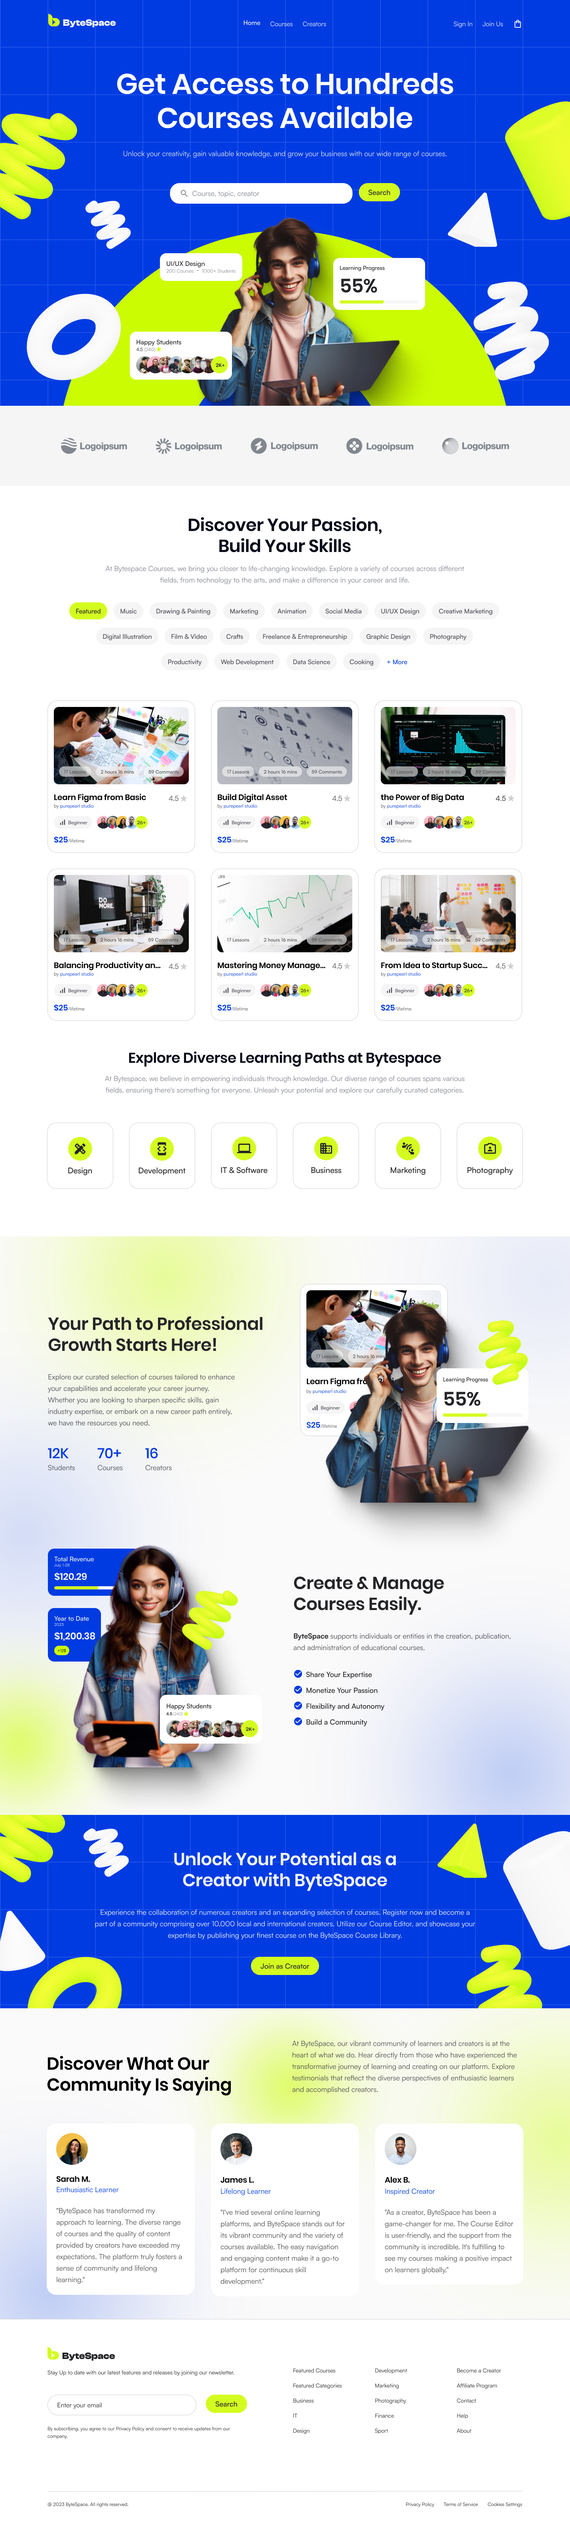
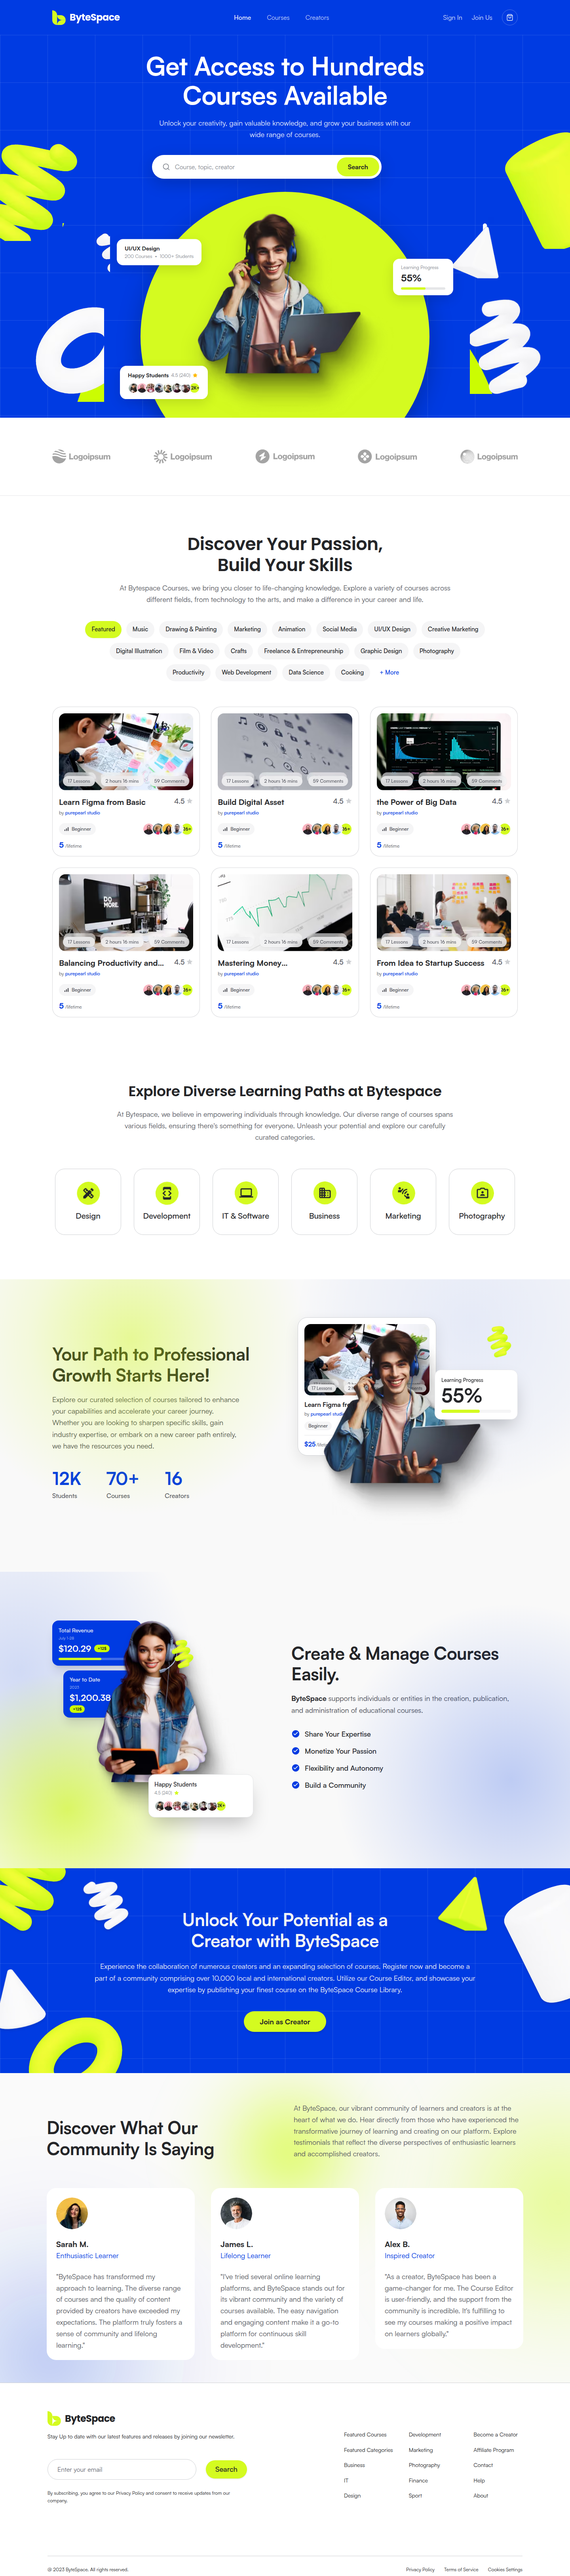
docs: finalize README with features, screenshots, and live link

diff --git a/README.md b/README.md
@@ -1,53 +1,181 @@
-# ByteSpace Frontend
+# ByteSpace — Modern E-Learning Platform
 
-A modern, responsive e-learning web platform built for the **ByteSpace** assessment.
+[![Next.js](https://img.shields.io/badge/Next.js-16-black?style=for-the-badge&logo=next.js)](https://nextjs.org/)
+[![React](https://img.shields.io/badge/React-19-blue?style=for-the-badge&logo=react)](https://react.dev/)
+[![TypeScript](https://img.shields.io/badge/TypeScript-5.0-blue?style=for-the-badge&logo=typescript)](https://www.typescriptlang.org/)
+[![Tailwind CSS](https://img.shields.io/badge/Tailwind_CSS-v4-38B2AC?style=for-the-badge&logo=tailwind-css)](https://tailwindcss.com/)
+[![Motion](https://img.shields.io/badge/Motion-Framer_Motion-purple?style=for-the-badge&logo=framer)](https://motion.dev/)
+[![Deployment](https://img.shields.io/badge/Vercel-Deployed-black?style=for-the-badge&logo=vercel)](https://byte-space-forntend-git-feature-land-2599c9-sisrafilss-projects.vercel.app/)
 
-## 🛠 Tech Stack
+A pixel-perfect, fully responsive, and highly interactive e-learning frontend web platform built for the **ByteSpace Assessment** (Jr. Software Engineer - Frontend).
 
-- **Framework:** Next.js 16 (App Router)
-- **Library:** React 19
-- **Language:** TypeScript
-- **Styling:** Tailwind CSS v4
-- **Icons:** Lucide React
-- **Fonts:** Poppins (Headings) & Satoshi (Body & Labels)
-- **Package Manager:** pnpm
+---
 
-## 📁 Project Structure
+## 🌐 Live Preview & Deployments
+
+- **Live Demo (Vercel Preview):** [https://byte-space-forntend-git-feature-land-2599c9-sisrafilss-projects.vercel.app/](https://byte-space-forntend-git-feature-land-2599c9-sisrafilss-projects.vercel.app/)
+- **Repository:** [https://github.com/sisrafilss/byte-space-forntend](https://github.com/sisrafilss/byte-space-forntend)
+- **Active Branch:** `feature/landing-page`
+
+---
+
+## 📸 Visual Previews & Pages
+
+| Landing Page (Home) | Custom 404 Error Page |
+| :---: | :---: |
+| ![ByteSpace Landing Page](./public/assets/mockups/home_full.png) | ![ByteSpace 404 Page](./public/assets/mockups/not_found_full.png) |
+
+| Login Page | Register Page |
+| :---: | :---: |
+| ![ByteSpace Login](./public/assets/mockups/login_full.png) | ![ByteSpace Register](./public/assets/mockups/register_full.png) |
+
+---
+
+## ✨ Key Features & Page Overview
+
+### 1. Landing Page (`/`)
+Built with 10 modular, pixel-perfect sections matching the exact Figma specifications:
+1. **Header & Navigation:** ByteSpace SVG brand identity, desktop menu links, and an accessible slide-over mobile drawer navigation.
+2. **Hero Section:** Signature 120px grid background pattern (12% opacity), 3D geometric ornaments, floating interactive micro-cards (UI/UX Design, Learning Progress 55%, Happy Students rating), and a responsive course search input.
+3. **Partner Logos Bar:** Partner brand showcase with high-DPI SVG vectors, styled for responsive viewing across screens.
+4. **Featured Categories:** 6 curated category cards (Design, Development, IT & Software, Business, Marketing, Photography) with custom icons and hover transitions.
+5. **Course Catalog & Filter Tabs:** Multi-tier category pill filters (Featured, Web Dev, UI/UX, Data Science, etc.) with responsive grid displaying 6 course cards featuring instructors, ratings, duration, and lifetime pricing.
+6. **Professional Growth Showcase:** Split section featuring live growth statistics (12K+ Students, 70+ Courses, 16 Creators) with composite floating UI widgets.
+7. **Course Management Showcase:** Creator dashboard preview featuring revenue metrics ($120.29 / $1,200.38 YTD) and benefit checklists.
+8. **Creator CTA Banner:** High-contrast dark banner with vibrant lime & cyan 3D geometric shapes encouraging instructors to join.
+9. **Testimonials Section:** Verified student and creator testimonial cards with avatars, roles, and star ratings.
+10. **Footer:** Comprehensive footer with newsletter subscription, platform and browse links, copyright bar, and legal disclosures.
+
+### 2. Authentication Suite (`/login` & `/register`) — Extra Credit
+- **Shared Auth Layout (`(auth)/layout.tsx`):** Branded split-screen experience with primary blue background, 120px grid, 3D geometric decorations, and floating rating badges on desktop.
+- **Login Page (`/login`):** Email & password inputs, social auth buttons (Google & Facebook), and seamless link to registration.
+- **Register Page (`/register`):** Full name, email, and password form fields with client-side state handling and toggle links.
+- **Mobile Responsive:** Fluid single-column card layout on smaller viewports with full accessibility.
+
+### 3. Custom 404 Page (`/not-found`)
+- Exact Figma design fidelity featuring the towering gradient "404" header (`#00249A` to transparent fade).
+- Figma 120px grid background overlay.
+- Clear error explanation, heading hierarchy, and primary "Back to Home" call-to-action button.
+
+### 4. GPU-Accelerated Animations (`motion`)
+- Built using **Motion** (Framer Motion engine for React 19).
+- Reusable animation primitives in `src/components/ui/motion/`:
+  - `FadeIn`: Directional fade-in and slide animations with configurable duration and stagger delays.
+  - `FloatWrapper`: Gentle floating ambient animations for decorative 3D shapes and floating cards (60–120 FPS GPU-accelerated transforms).
+  - `StaggerContainer`: Sequential entrance effects for grid items and category cards.
+- **Accessibility:** Fully honors user system settings with `prefers-reduced-motion` fallbacks.
+
+---
+
+## 🛠 Tech Stack & Design System
+
+| Technology | Version | Purpose |
+| :--- | :--- | :--- |
+| **Next.js** | `16.0` (App Router) | React framework with Server Components & optimized asset pipelines |
+| **React** | `19.0` | Latest React engine with concurrent rendering |
+| **TypeScript** | `5.0+` | End-to-end type safety across components and utilities |
+| **Tailwind CSS** | `v4` | High-performance CSS engine using modern CSS variables & design tokens |
+| **Motion** | `13.4` | Smooth declarative animations and micro-interactions |
+| **Lucide React** | `0.544` | Crisp, scalable UI icons |
+| **pnpm** | `Latest` | Fast, disk-space efficient package manager |
+
+### Design Tokens & Typography
+- **Primary Color:** `#0445FF` (`--primary-800`)
+- **Secondary / Accent:** `#D4FB20` (`--secondary-400` Neon Lime)
+- **Typography:**
+  - Headings: `Poppins` (Bold, SemiBold, Medium)
+  - Body & UI: `Satoshi` & `Inter` fallback
+
+---
+
+## 📁 Project Architecture
 
 ```text
 byte-space/
 ├── public/
 │   └── assets/
-│       ├── svg/         # Logos & vector graphics
-│       ├── images/      # Course images, avatars & illustrations
-│       └── mockups/     # Full-page high-resolution design references
+│       ├── svg/                  # Scalable brand icons & logos
+│       ├── images/               # Course thumbnails, avatars & 3D ornaments
+│       └── mockups/              # High-res design comparison snapshots
 ├── src/
-│   ├── app/             # Next.js App Router (pages & layouts)
-│   ├── components/      # Reusable UI components
-│   └── lib/             # Utility functions & helpers
+│   ├── app/                      # Next.js App Router
+│   │   ├── (auth)/               # Auth route group
+│   │   │   ├── layout.tsx        # Shared blue branded auth layout
+│   │   │   ├── login/page.tsx    # Sign In view
+│   │   │   └── register/page.tsx # Sign Up view
+│   │   ├── layout.tsx            # Root layout with fonts & metadata
+│   │   ├── not-found.tsx         # Custom 404 error page
+│   │   ├── globals.css           # Tailwind v4 theme & font variables
+│   │   └── page.tsx              # Main landing page
+│   ├── components/
+│   │   ├── layout/               # Global Navbar & Footer
+│   │   ├── modules/              # Feature-driven modular components
+│   │   │   ├── auth/             # LoginForm & RegisterForm
+│   │   │   ├── home/             # Hero, Partners, Courses, CTA, Testimonials, etc.
+│   │   │   └── notFound/         # Custom 404 content
+│   │   ├── shared/               # Shared composite components (AvatarGroup, etc.)
+│   │   └── ui/                   # Reusable UI primitives (Button, Container, Motion, etc.)
+│   └── lib/
+│       └── utils.ts              # Class merging utility (clsx + twMerge)
+├── IMPLEMENTATION_PLAN.md        # Comprehensive development roadmap
 ├── package.json
 └── README.md
 ```
 
-## 🚀 Getting Started
+---
 
-First, install dependencies:
+## 🚀 Getting Started & Local Setup
 
+### Prerequisites
+- **Node.js:** `>= 18.18.0` (LTS recommended)
+- **pnpm:** `>= 8.0.0` (or `npm` / `yarn`)
+
+### 1. Clone the repository
+```bash
+git clone git@github.com:sisrafilss/byte-space-forntend.git
+cd byte-space-forntend
+```
+
+### 2. Switch to the feature branch
+```bash
+git checkout feature/landing-page
+```
+
+### 3. Install dependencies
 ```bash
 pnpm install
 ```
 
-Run the development server:
-
+### 4. Start the development server
 ```bash
 pnpm dev
 ```
+Open [http://localhost:3000](http://localhost:3000) in your browser.
 
-Open [http://localhost:3000](http://localhost:3000) with your browser to see the result.
+### 5. Production build & verification
+```bash
+# Verify TypeScript types and production build
+pnpm build
 
-## 🌿 Git Branching Strategy
+# Run ESLint validation (0 errors / 0 warnings)
+pnpm lint
+```
 
-Following assessment best practices:
+---
 
-- `main`: Production-ready baseline
-- `feature/landing-page`: Feature branch containing active development & PR submission
+## 🌿 Git Branching & Submission Strategy
+
+This repository strictly adheres to standard software engineering best practices:
+
+- **`main`:** Stable baseline branch.
+- **`feature/landing-page`:** Active feature branch containing all feature commits, design refinements, animations, and documentation.
+- **Pull Request:** Open Pull Request targeting `main` from `feature/landing-page` for code review and assessment evaluation (left open without merging as instructed).
+
+---
+
+## 👨💻 Author & Assessment Information
+
+- **Candidate:** Israfil
+- **Role:** Jr. Software Engineer (Frontend)
+- **Assessment for:** ByteSpace / Doin Tech
+- **Completion Date:** September 2026
